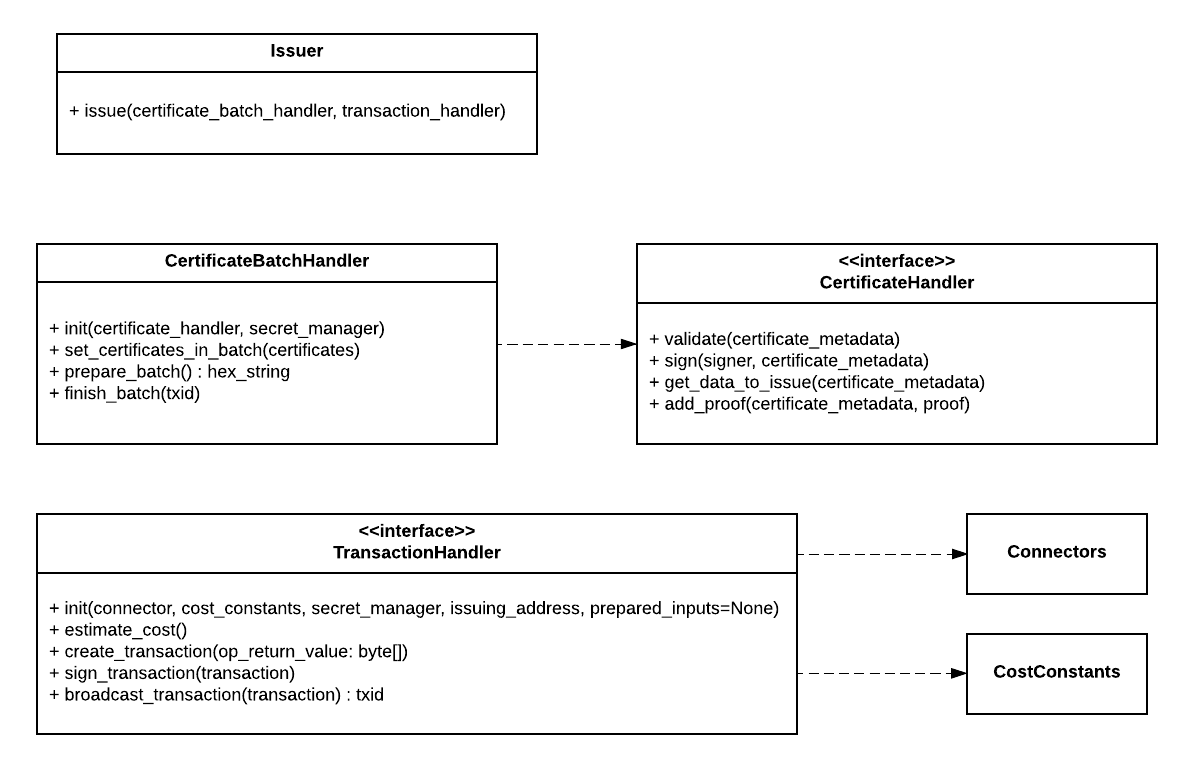
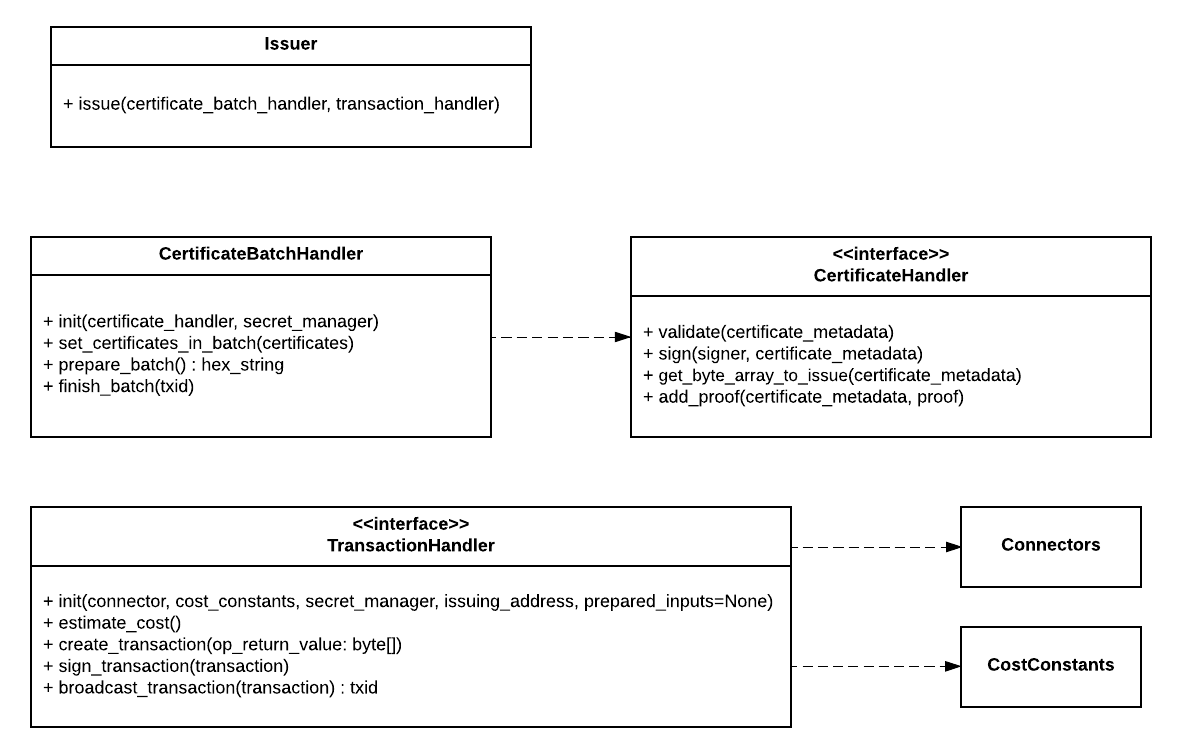
use pycoin b2h and h2b instead of custom hexlify, etc. Fix accidental image overwrite

diff --git a/tests/test_connectors.py b/tests/test_connectors.py
@@ -5,9 +5,9 @@ from bitcoin.core import COutPoint, lx, x, CScript
 from bitcoin.core.script import OP_EQUALVERIFY, OP_CHECKSIG, OP_DUP, OP_HASH160
 from bitcoin.wallet import P2PKHBitcoinAddress
 from mock import patch
+from pycoin.serialize import b2h
 
 from cert_issuer.connectors import BitcoindConnector
-from cert_issuer.helpers import hexlify
 
[2 lines of base64/hex data omitted]
@@ -61,7 +61,7 @@ class TestConnectors(unittest.TestCase):
         bc = BitcoindConnector('XTN')
         spendables = bc.spendables_for_address('mz7poFND7hVGRtPWjiZizcCnjf6wEDWjjT')
         self.assertEquals(len(spendables), 3)
-        self.assertEquals(hexlify(spendables[0].tx_hash),
+        self.assertEquals(b2h(spendables[0].tx_hash),
[1 lines of base64/hex data omitted]
         self.assertEquals(spendables[0].coin_value, 49000000)
         self.assertEquals(spendables[1].coin_value, 2750)

diff --git a/tests/test_tx_utils.py b/tests/test_tx_utils.py
@@ -2,12 +2,11 @@ import io
 import unittest
 
 import bitcoin
-from pycoin.serialize import h2b
+from pycoin.serialize import b2h, h2b
 from pycoin.tx import Spendable
 from pycoin.tx import Tx
 
 from cert_issuer import tx_utils
-from cert_issuer.helpers import hexlify
 from cert_issuer.tx_utils import TransactionCostConstants
 
[1 lines of base64/hex data omitted]
@@ -22,9 +21,9 @@ class TestTrxUtils(unittest.TestCase):
[1 lines of base64/hex data omitted]
         tx = tx_utils.create_trx(op_return_val, 3, 'mgAqW5ZCnEp7fjvpj8RUL3WxsBy8rcDcCi', tx_outs, [tx_input])
 
-        hextx = hexlify(tx.serialize())
+        hextx = b2h(tx.serialize())
 
-        tx_utils.verify_transaction(hextx, hexlify(op_return_val))
+        tx_utils.verify_transaction(hextx, b2h(op_return_val))
 
     def test_calculate_raw_tx_size(self):
         result = tx_utils.calculate_raw_tx_size(num_inputs=40, num_outputs=16)
@@ -49,7 +48,7 @@ class TestTrxUtils(unittest.TestCase):
                              b, 0)
         tx_outs = [tx_utils.create_transaction_output('mgAqW5ZCnEp7fjvpj8RUL3WxsBy8rcDcCi', 0.0000275)]
         tx = tx_utils.create_trx('TEST'.encode('utf-8'), 3, 'mgAqW5ZCnEp7fjvpj8RUL3WxsBy8rcDcCi', tx_outs, [tx_input])
-        hextx = hexlify(tx.serialize())
+        hextx = b2h(tx.serialize())
         self.assertEquals(hextx,
[1 lines of base64/hex data omitted]
 

diff --git a/cert_issuer/merkle_tree_generator.py b/cert_issuer/merkle_tree_generator.py
@@ -1,17 +1,18 @@
 import hashlib
 
 from chainpoint.chainpoint import MerkleTools
+from pycoin.serialize import h2b
 
 
-def hash_binary_data(data):
+def hash_byte_array(data):
     hashed = hashlib.sha256(data).hexdigest()
     return hashed
 
 
-def ensure_string(str_value):
-    if isinstance(str_value, str):
-        return str_value
-    return str_value.decode('utf-8')
+def ensure_string(value):
+    if isinstance(value, str):
+        return value
+    return value.decode('utf-8')
 
 
 class MerkleTreeGenerator(object):
@@ -20,22 +21,23 @@ class MerkleTreeGenerator(object):
 
     def populate(self, node_generator):
         """
-        Populate Merkle Tree with data from node_generator. This requires that node_generator yield string elements.
-        Adds it to the Merkle Tree (which hashes and hex encodes via the second True parameter)
+        Populate Merkle Tree with data from node_generator. This requires that node_generator yield byte[] elements.
+        Hashes, computes hex digest, and adds it to the Merkle Tree
         :param node_generator:
         :return:
         """
         for data in node_generator:
-            self.tree.add_leaf(data, True)
+            hashed = hash_byte_array(data)
+            self.tree.add_leaf(hashed)
 
     def get_blockchain_data(self):
         """
-        Finalize tree and return hex string to issue on blockchain
+        Finalize tree and return byte array to issue on blockchain
         :return:
         """
         self.tree.make_tree()
         merkle_root = self.tree.get_merkle_root()
-        return ensure_string(merkle_root)
+        return h2b(ensure_string(merkle_root))
 
     def get_proof_generator(self, tx_id):
         """

diff --git a/cert_issuer/certificate_handler.py b/cert_issuer/certificate_handler.py
@@ -18,7 +18,7 @@ class CertificateHandler(object):
         pass
 
     @abstractmethod
-    def get_data_to_issue(self, certificate_metadata):
+    def get_byte_array_to_issue(self, certificate_metadata):
         pass
 
     @abstractmethod
@@ -39,10 +39,10 @@ class CertificateV2Handler(CertificateHandler):
     def sign_certificate(self, signer, certificate_metadata):
         pass
 
-    def get_data_to_issue(self, certificate_metadata):
+    def get_byte_array_to_issue(self, certificate_metadata):
         certificate_json = self._get_certificate_to_issue(certificate_metadata)
         normalized = normalize_jsonld(certificate_json, detect_unmapped_fields=False)
-        return normalized
+        return normalized.encode('utf-8')
 
     def add_proof(self, certificate_metadata, merkle_proof):
         """
@@ -82,7 +82,7 @@ class CertificateBatchHandler(object):
     def prepare_batch(self):
         """
         Propagates exception on failure
-        :return: hex string to put on the blockchain
+        :return: byte array to put on the blockchain
         """
 
         # validate batch
@@ -103,7 +103,7 @@ class CertificateBatchHandler(object):
         :return:
         """
         for uid, metadata in self.certificates_to_issue.items():
-            data_to_issue = self.certificate_handler.get_data_to_issue(metadata)
+            data_to_issue = self.certificate_handler.get_byte_array_to_issue(metadata)
             yield data_to_issue
 
     def finish_batch(self, tx_id):

diff --git a/cert_issuer/transaction_handler.py b/cert_issuer/transaction_handler.py
@@ -2,9 +2,10 @@ import logging
 import random
 from abc import abstractmethod
 
+from pycoin.serialize import b2h
+
 from cert_issuer import tx_utils
 from cert_issuer.errors import InsufficientFundsError
-from cert_issuer.helpers import hexlify
 from cert_issuer.signer import FinalizableSigner
 
 # Estimate fees assuming worst case 3 inputs
@@ -76,7 +77,7 @@ class BitcoinTransactionHandler(TransactionHandler):
             raise InsufficientFundsError(error_message)
 
     def issue_transaction(self, op_return_bytes):
-        op_return_value = hexlify(op_return_bytes)
+        op_return_value = b2h(op_return_bytes)
         prepared_tx = self.create_transaction(op_return_bytes)
         signed_tx = self.sign_transaction(prepared_tx)
         self.verify_transaction(signed_tx, op_return_value)
@@ -107,7 +108,7 @@ class BitcoinTransactionHandler(TransactionHandler):
 
         tx = self.transaction_creator.create_transaction(self.tx_cost_constants, self.issuing_address, inputs,
                                                          op_return_bytes)
-        hex_tx = hexlify(tx.serialize())
+        hex_tx = b2h(tx.serialize())
         logging.info('Unsigned hextx=%s', hex_tx)
         prepared_tx = tx_utils.prepare_tx_for_signing(hex_tx, inputs)
         return prepared_tx

diff --git a/tests/test_certificate_handler.py b/tests/test_certificate_handler.py
@@ -1,6 +1,7 @@
 import unittest
 
 import mock
+from pycoin.serialize import b2h
 
 from cert_issuer.certificate_handler import CertificateBatchHandler, CertificateHandler
 
@@ -17,7 +18,7 @@ class TestCertificateHandler(unittest.TestCase):
                                                             certificate_handler=DummyCertificateHandler())
         certificate_batch_handler.set_certificates_in_batch(certificates_to_issue)
         result = certificate_batch_handler.prepare_batch()
[2 lines of base64/hex data omitted]
 
 
 class DummyCertificateHandler(CertificateHandler):
@@ -30,9 +31,9 @@ class DummyCertificateHandler(CertificateHandler):
     def sign_certificate(self, signer, certificate_metadata):
         pass
 
-    def get_data_to_issue(self, certificate_metadata):
+    def get_byte_array_to_issue(self, certificate_metadata):
         self.counter += 1
-        return str(self.counter)
+        return str(self.counter).encode('utf-8')
 
     def add_proof(self, certificate_metadata, merkle_proof):
         pass

diff --git a/cert_issuer/connectors.py b/cert_issuer/connectors.py
@@ -9,7 +9,7 @@ import bitcoin.rpc
 import requests
 from bitcoin.core import CTransaction
 from cert_schema import Chain
-from pycoin.serialize import b2h
+from pycoin.serialize import b2h, b2h_rev, h2b
 from pycoin.services import providers
 from pycoin.services.blockr_io import BlockrioProvider
 from pycoin.services.insight import InsightProvider
@@ -17,8 +17,6 @@ from pycoin.services.providers import service_provider_methods
 from pycoin.tx import Spendable
 
 from cert_issuer.errors import ConnectorError, BroadcastError
-from cert_issuer.helpers import hexlify
-from cert_issuer.helpers import unhexlify
 
 BROADCAST_RETRY_INTERVAL = 30
 
@@ -106,10 +104,10 @@ class BitcoindConnector(object):
 
     def broadcast_tx(self, transaction):
         as_hex = transaction.as_hex()
-        transaction = CTransaction.deserialize(unhexlify(as_hex))
+        transaction = CTransaction.deserialize(h2b(as_hex))
         tx_id = bitcoin.rpc.Proxy().sendrawtransaction(transaction)
         # reverse endianness for bitcoind
-        return hexlify(bytearray(tx_id)[::-1])
+        return b2h_rev(tx_id)
 
     def spendables_for_address(self, address):
         """

diff --git a/tests/test_merkle_tree_generator.py b/tests/test_merkle_tree_generator.py
@@ -1,5 +1,7 @@
 import unittest
 
+from pycoin.serialize import b2h
+
 from cert_issuer.merkle_tree_generator import MerkleTreeGenerator
 
 
@@ -9,15 +11,15 @@ def get_test_data_generator():
     :return:
     """
     for num in range(1, 4):
-        yield str(num)
+        yield str(num).encode('utf-8')
 
 
 class TestMerkleTreeGenerator(unittest.TestCase):
     def test_generate(self):
         merkle_tree_generator = MerkleTreeGenerator()
         merkle_tree_generator.populate(get_test_data_generator())
-        binary_data = merkle_tree_generator.get_blockchain_data()
[1 lines of base64/hex data omitted]
+        byte_array = merkle_tree_generator.get_blockchain_data()
[1 lines of base64/hex data omitted]
 
     def test_proofs(self):
         merkle_tree_generator = MerkleTreeGenerator()

diff --git a/cert_issuer/helpers.py b/cert_issuer/helpers.py
@@ -1,23 +1,15 @@
-import binascii
 import collections
 import logging
 import os
 import shutil
-import sys
 
 import glob2
+from pycoin.serialize import b2h, h2b
 
 from cert_issuer.errors import NoCertificatesFoundError
 
-unhexlify = binascii.unhexlify
-hexlify = binascii.hexlify
-if sys.version > '3':
-    # returns bytes
-    def unhexlify(hex_string): return binascii.unhexlify(hex_string.encode('utf8'))
-
-
-    # returns string
-    def hexlify(hex_bytes): return binascii.hexlify(hex_bytes).decode('utf8')
+unhexlify = h2b
+hexlify = b2h
 
 UNSIGNED_CERTIFICATES_DIR = 'unsigned_certificates'
 SIGNED_CERTIFICATES_DIR = 'signed_certificates'

diff --git a/cert_issuer/issuer.py b/cert_issuer/issuer.py
@@ -4,7 +4,6 @@ Base class for building blockchain transactions to issue Blockchain Certificates
 import logging
 
 from cert_issuer.errors import BroadcastError
-from cert_issuer.helpers import unhexlify
 
 MAX_TX_RETRIES = 5
 
@@ -21,8 +20,7 @@ class Issuer:
         :return:
         """
 
-        op_return = self.certificate_batch_handler.prepare_batch()
-        op_return_bytes = unhexlify(op_return)
+        op_return_bytes = self.certificate_batch_handler.prepare_batch()
 
         for attempt_number in range(0, self.max_retry):
             try:

diff --git a/README.md b/README.md
@@ -196,14 +196,14 @@ extracting the data to issue on the blockchain, and handling the blockchain tran
 - `prepare_batch` 
     - performs the preparatory steps on certificates in the batch, including validation of the schema and forming the 
     data that will go on the blockchain. Certificate-level details are handled by `CertificateHandler`s
-    - returns the hex string that will go on the blockchain
+    - returns the hex byte array that will go on the blockchain
 - `finish_batch` ensures each certificate is updated with the blockchain transaction information (and proof in general)
 
 `CertificateHandler` is responsible for reading from and updating a specific certificate (identified by certificate_metadata). 
 It is used exclusively by `CertificateBatchHandler` to handle certificate-level details:
 - `validate`: ensure the certificate is well-formed
 - `sign`: (currently unused)
-- `get_data_to_issue`: return string that will be hashed and added to the Merkle Tree
+- `get_byte_array_to_issue`: return byte array that will be hashed, hex-digested and added to the Merkle Tree
 - `add_proof`: associate a a proof with a certificate (in the current implementation, the proof is embedded in the file)
 
 `TransactionHandler` deals with putting the data on the blockchain. Currently only a Bitcoin implementation exists
